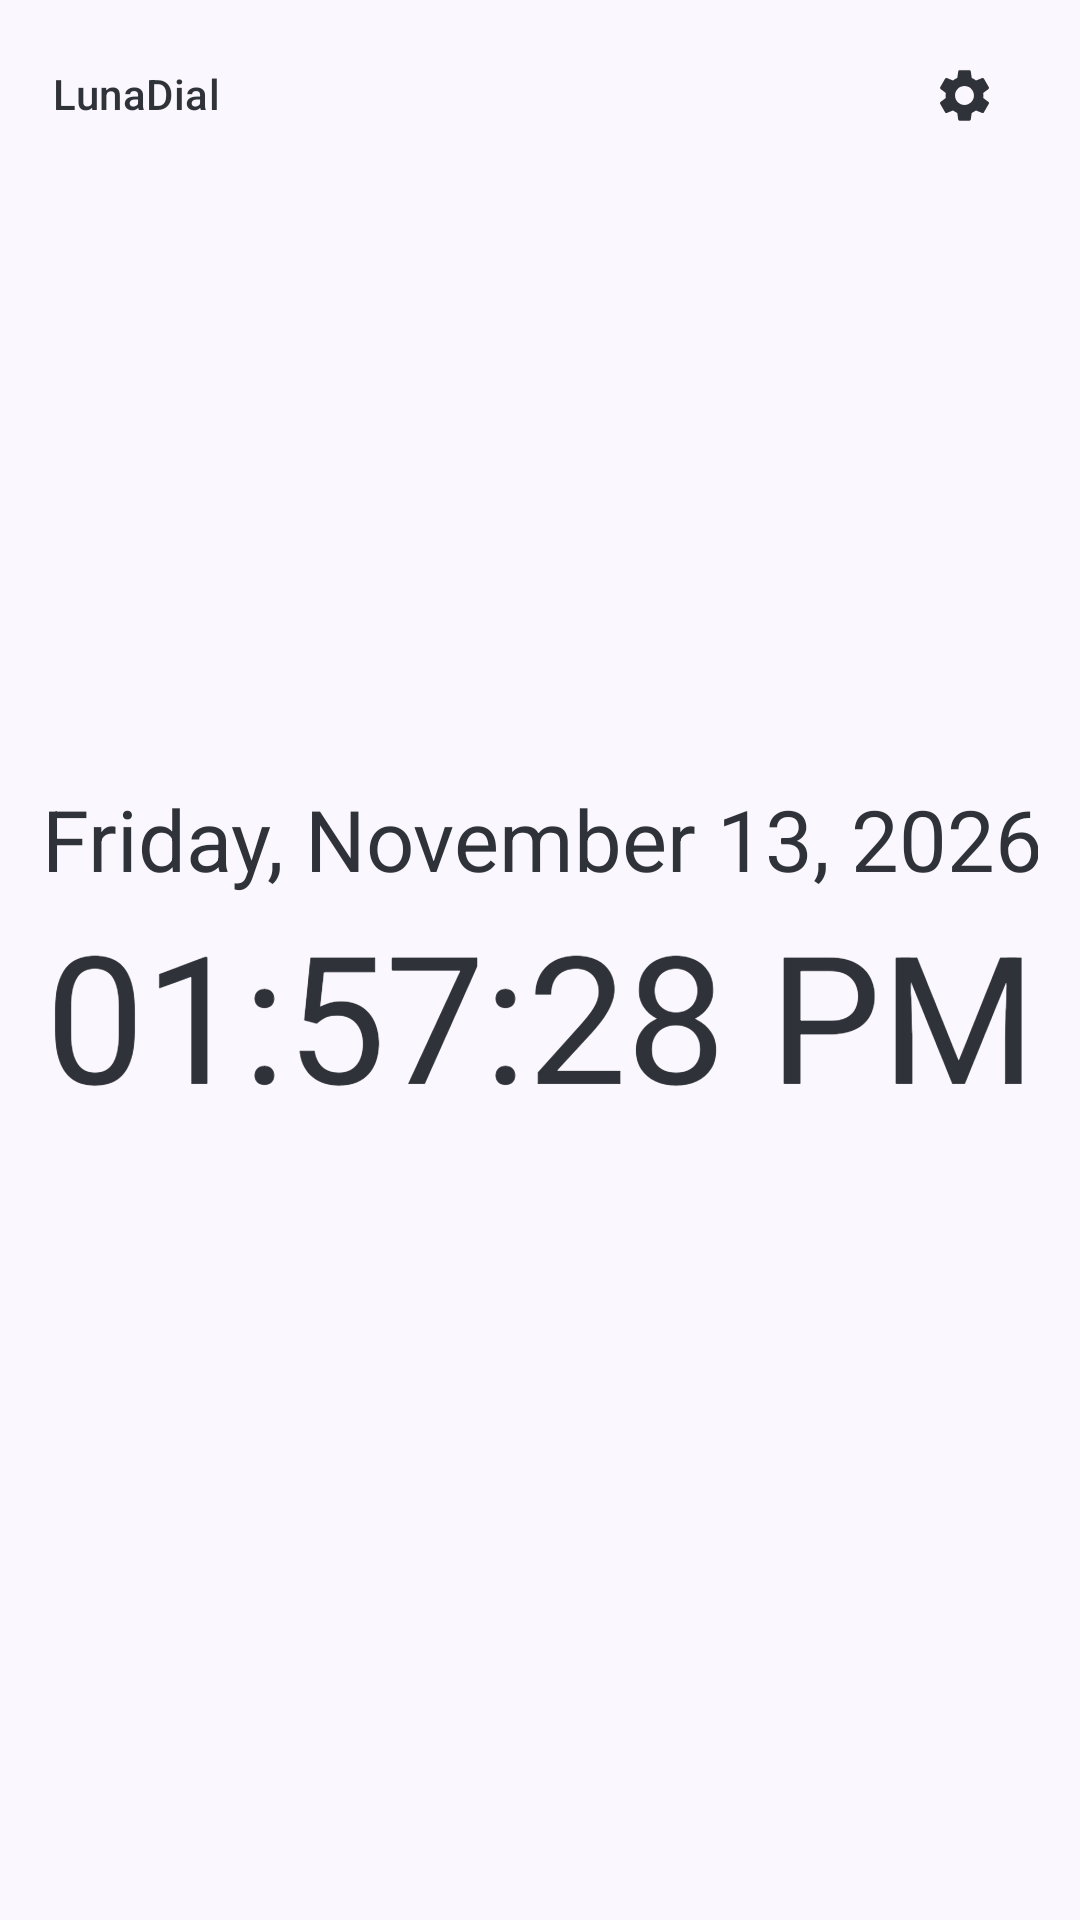
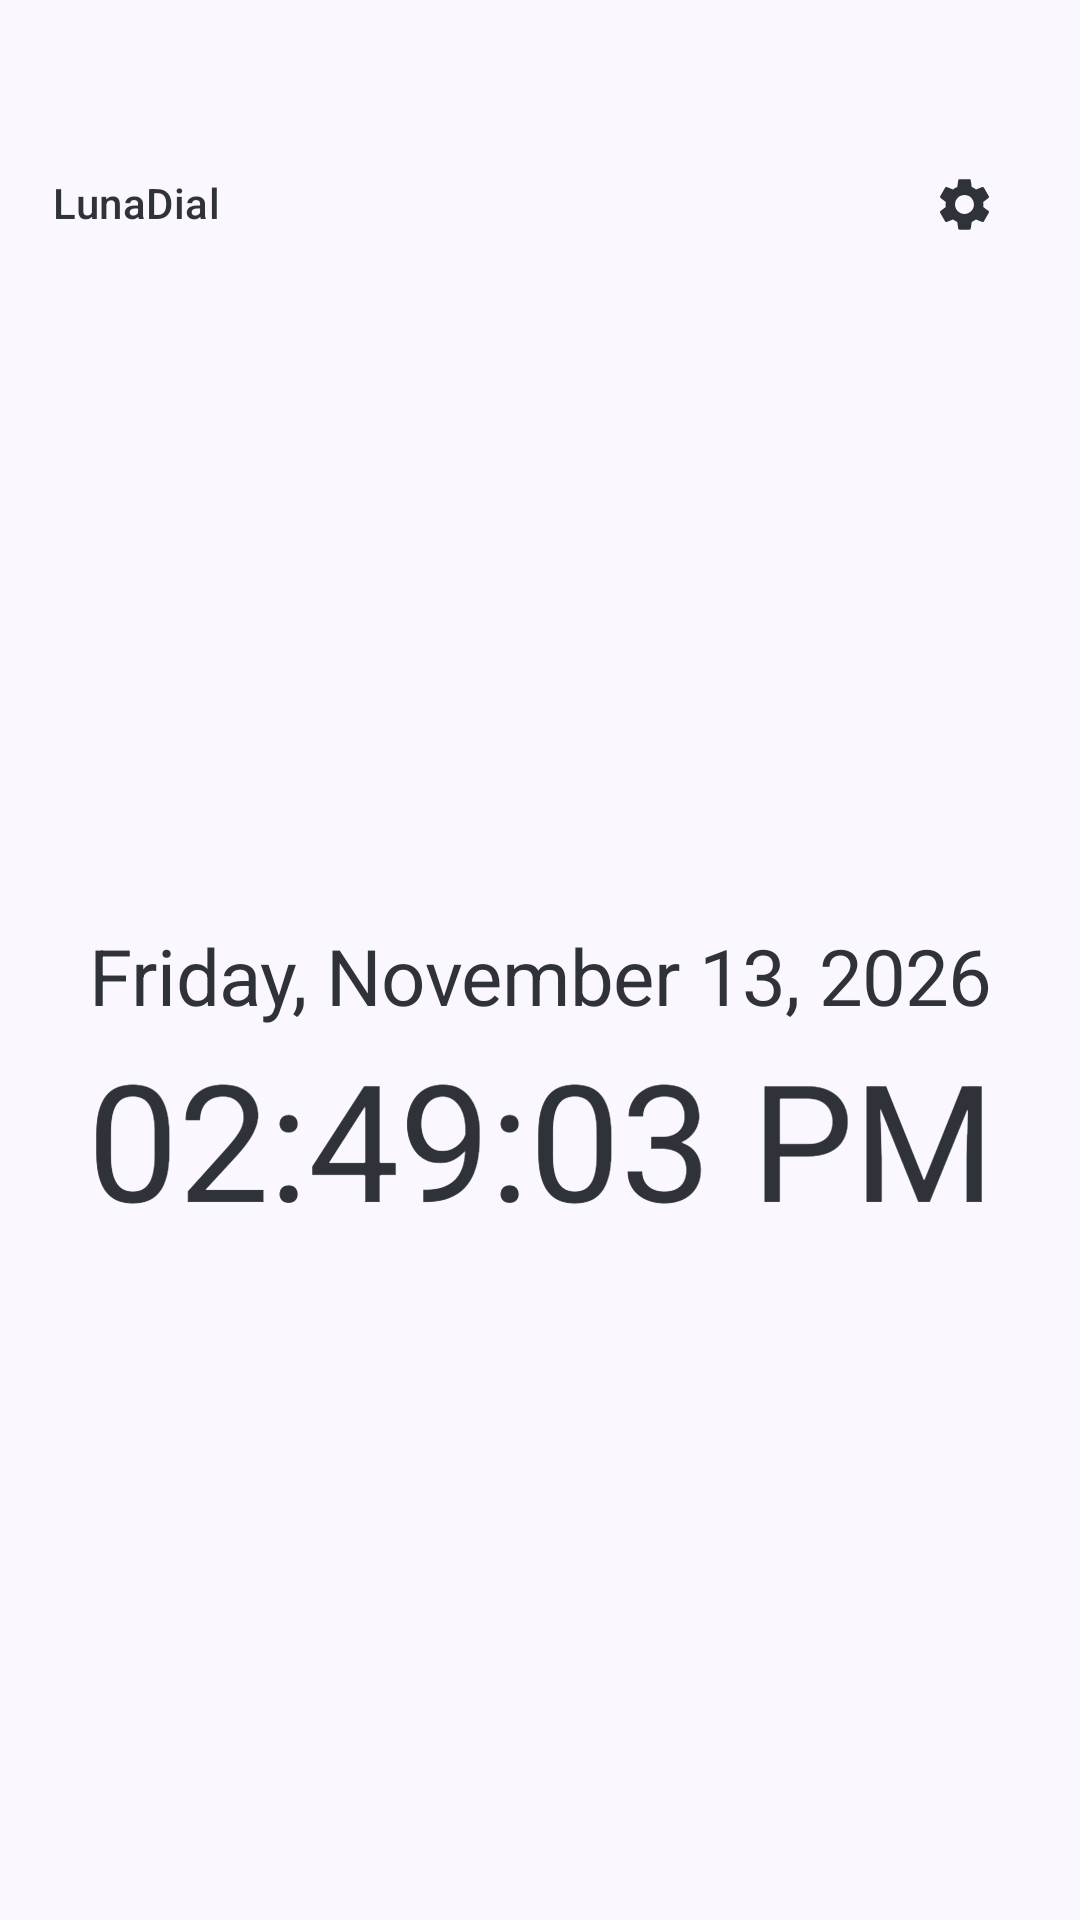
Lay the clock out inside the safe area and fix night contrast
The clock screen ignored DisplayCutout, so in landscape the punch hole
sat on top of the dial. Content now draws inside WindowInsets.safeDrawing
plus a reserved strip for the auto-hiding title bar, and the bar itself
respects the same insets.

The analog composition is rebuilt as one centred pair instead of two
independently centred halves: landscape places clock and calendar side by
side with a fixed gap, portrait stacks them, and both are sized from the
shorter side so nothing is clipped at 9:16 or at full height.

Night display also painted the light theme's near-black text on a black
background, which made the clock almost invisible. The clock content now
gets its own dark scheme while keeping the accent, so night mode is a
readable dark presentation regardless of the app theme.

Refreshes store screenshots 1, 2 and 4 for the new layout.

diff --git a/app/src/main/kotlin/com/gt610/lunadial/ui/clock/ClockScreen.kt b/app/src/main/kotlin/com/gt610/lunadial/ui/clock/ClockScreen.kt
@@ -15,19 +15,26 @@ import androidx.compose.foundation.layout.Box
 import androidx.compose.foundation.layout.BoxWithConstraints
 import androidx.compose.foundation.layout.Column
 import androidx.compose.foundation.layout.Row
+import androidx.compose.foundation.layout.PaddingValues
 import androidx.compose.foundation.layout.WindowInsets
 import androidx.compose.foundation.layout.asPaddingValues
+import androidx.compose.foundation.layout.calculateEndPadding
+import androidx.compose.foundation.layout.calculateStartPadding
 import androidx.compose.foundation.layout.fillMaxSize
 import androidx.compose.foundation.layout.fillMaxWidth
+import androidx.compose.foundation.layout.Spacer
+import androidx.compose.foundation.layout.height
 import androidx.compose.foundation.layout.padding
 import androidx.compose.foundation.layout.width
+import androidx.compose.foundation.layout.width
 import androidx.compose.foundation.layout.size
-import androidx.compose.foundation.layout.systemBars
+import androidx.compose.foundation.layout.safeDrawing
 import androidx.compose.material.icons.Icons
 import androidx.compose.material.icons.filled.Settings
 import androidx.compose.material3.Icon
 import androidx.compose.material3.IconButton
 import androidx.compose.material3.MaterialTheme
+import androidx.compose.material3.darkColorScheme
 import androidx.compose.material3.Text
 import androidx.compose.runtime.Composable
 import androidx.compose.runtime.DisposableEffect
@@ -42,6 +49,7 @@ import androidx.compose.ui.graphics.Color
 import androidx.compose.ui.semantics.contentDescription
 import androidx.compose.ui.semantics.semantics
 import androidx.compose.ui.platform.LocalContext
+import androidx.compose.ui.platform.LocalLayoutDirection
 import androidx.compose.ui.platform.LocalView
 import androidx.compose.ui.res.stringResource
 import androidx.compose.ui.text.font.FontWeight
@@ -62,6 +70,8 @@ import kotlinx.coroutines.delay
 import java.util.Calendar
 
 private const val CONTROLS_VISIBLE_MILLIS = 5_000L
+private val CONTROLS_BAR_HEIGHT = 56.dp
+private val CONTENT_MARGIN = 16.dp
 
 /** The home screen: clock face, optional calendar, and auto-hiding controls. */
 @Composable
@@ -104,6 +114,17 @@ fun ClockScreen(
 
   val background = if (nightActive) Color.Black else MaterialTheme.colorScheme.background
 
+  // Respect display cutouts as well as the system bars: in landscape the punch
+  // hole sits on the short edge and would otherwise eat into the dial.
+  val layoutDirection = LocalLayoutDirection.current
+  val safeInsets = WindowInsets.safeDrawing.asPaddingValues()
+  val contentPadding = PaddingValues(
+    start = safeInsets.calculateStartPadding(layoutDirection) + CONTENT_MARGIN,
+    end = safeInsets.calculateEndPadding(layoutDirection) + CONTENT_MARGIN,
+    top = safeInsets.calculateTopPadding() + CONTROLS_BAR_HEIGHT + CONTENT_MARGIN,
+    bottom = safeInsets.calculateBottomPadding() + CONTENT_MARGIN,
+  )
+
   Box(
     modifier = modifier
       .fillMaxSize()
@@ -121,15 +142,32 @@ fun ClockScreen(
         ) { controlsVisible = !controlsVisible },
     )
 
-    BurnInProtection(
-      enabled = nightActive && settings.burnInProtection,
-      modifier = Modifier.fillMaxSize(),
-    ) {
-      ClockContent(
-        now = now,
-        settings = settings,
-        nightActive = nightActive,
+    // The night presentation is a dark surface no matter what the app theme
+    // is, so the clock content gets its own dark scheme. Reusing the light
+    // scheme here would paint near-black text on a black background.
+    val clockScheme = if (nightActive) {
+      darkColorScheme(
+        primary = MaterialTheme.colorScheme.primary,
+        secondary = MaterialTheme.colorScheme.secondary,
+        tertiary = MaterialTheme.colorScheme.tertiary,
       )
+    } else {
+      MaterialTheme.colorScheme
+    }
+
+    MaterialTheme(colorScheme = clockScheme) {
+      BurnInProtection(
+        enabled = nightActive && settings.burnInProtection,
+        modifier = Modifier
+          .fillMaxSize()
+          .padding(contentPadding),
+      ) {
+        ClockContent(
+          now = now,
+          settings = settings,
+          nightActive = nightActive,
+        )
+      }
     }
 
     AnimatedVisibility(
@@ -139,7 +177,7 @@ fun ClockScreen(
       modifier = Modifier
         .align(Alignment.TopCenter)
         .fillMaxWidth()
-        .padding(WindowInsets.systemBars.asPaddingValues())
+        .padding(safeInsets)
         .padding(horizontal = 20.dp, vertical = 12.dp),
     ) {
       Row(
@@ -211,9 +249,7 @@ private fun AnalogClockWithCalendar(
   BoxWithConstraints(
     Modifier
       .fillMaxSize()
-      .semantics { contentDescription = semanticsLabel }
-      // Leave the top strip free for the auto-hiding title bar.
-      .padding(start = 24.dp, end = 24.dp, top = 72.dp, bottom = 24.dp),
+      .semantics { contentDescription = semanticsLabel },
   ) {
     val availableWidth = maxWidth
     val availableHeight = maxHeight
@@ -226,35 +262,38 @@ private fun AnalogClockWithCalendar(
     }
 
     if (isLandscape) {
-      // The calendar is roughly 1.45x as tall as it is wide, so cap its width by
-      // the available height to keep every row on screen.
-      val calendarWidth = minOf(availableWidth * 0.46f, availableHeight * 0.68f)
+      // Clock and calendar are laid out as one centred pair, sized from the
+      // shorter side so neither runs into the cutout or the edges.
+      val gap = 32.dp
+      val usableWidth = availableWidth - gap
+      val clockSize = minOf(availableHeight * 0.92f, usableWidth * 0.62f)
+      val calendarWidth = minOf(usableWidth * 0.38f, availableHeight * 0.75f)
       Row(
         modifier = Modifier.fillMaxSize(),
         verticalAlignment = Alignment.CenterVertically,
-        horizontalArrangement = Arrangement.spacedBy(24.dp),
+        horizontalArrangement = Arrangement.Center,
       ) {
         AnalogClock(
           now = now,
           showSecondHand = settings.showSeconds,
           nightMode = nightActive,
-          modifier = Modifier.size(minOf(availableHeight, availableWidth * 0.45f)),
+          modifier = Modifier.size(clockSize),
         )
-        Box(Modifier.weight(1f), contentAlignment = Alignment.Center) {
-          CalendarPanel(
-            focusedMonth = focusedMonth,
-            selectedDay = selectedDay,
-            today = now,
-            nightMode = nightActive,
-            onMonthChange = monthChanger,
-            onDaySelected = daySelector,
-            modifier = Modifier.width(calendarWidth),
-          )
-        }
+        Spacer(Modifier.width(gap))
+        CalendarPanel(
+          focusedMonth = focusedMonth,
+          selectedDay = selectedDay,
+          today = now,
+          nightMode = nightActive,
+          onMonthChange = monthChanger,
+          onDaySelected = daySelector,
+          modifier = Modifier.width(calendarWidth),
+        )
       }
     } else {
+      val gap = 20.dp
       val clockSize = minOf(availableWidth, availableHeight * 0.52f)
-      val calendarWidth = minOf(availableWidth, availableHeight * 0.33f)
+      val calendarWidth = minOf(availableWidth, availableHeight * 0.32f)
       Column(
         modifier = Modifier.fillMaxSize(),
         horizontalAlignment = Alignment.CenterHorizontally,
@@ -266,17 +305,16 @@ private fun AnalogClockWithCalendar(
           nightMode = nightActive,
           modifier = Modifier.size(clockSize),
         )
-        Column(Modifier.padding(top = 20.dp)) {
-          CalendarPanel(
-            focusedMonth = focusedMonth,
-            selectedDay = selectedDay,
-            today = now,
-            nightMode = nightActive,
-            onMonthChange = monthChanger,
-            onDaySelected = daySelector,
-            modifier = Modifier.width(calendarWidth),
-          )
-        }
+        Spacer(Modifier.height(gap))
+        CalendarPanel(
+          focusedMonth = focusedMonth,
+          selectedDay = selectedDay,
+          today = now,
+          nightMode = nightActive,
+          onMonthChange = monthChanger,
+          onDaySelected = daySelector,
+          modifier = Modifier.width(calendarWidth),
+        )
       }
     }
   }
